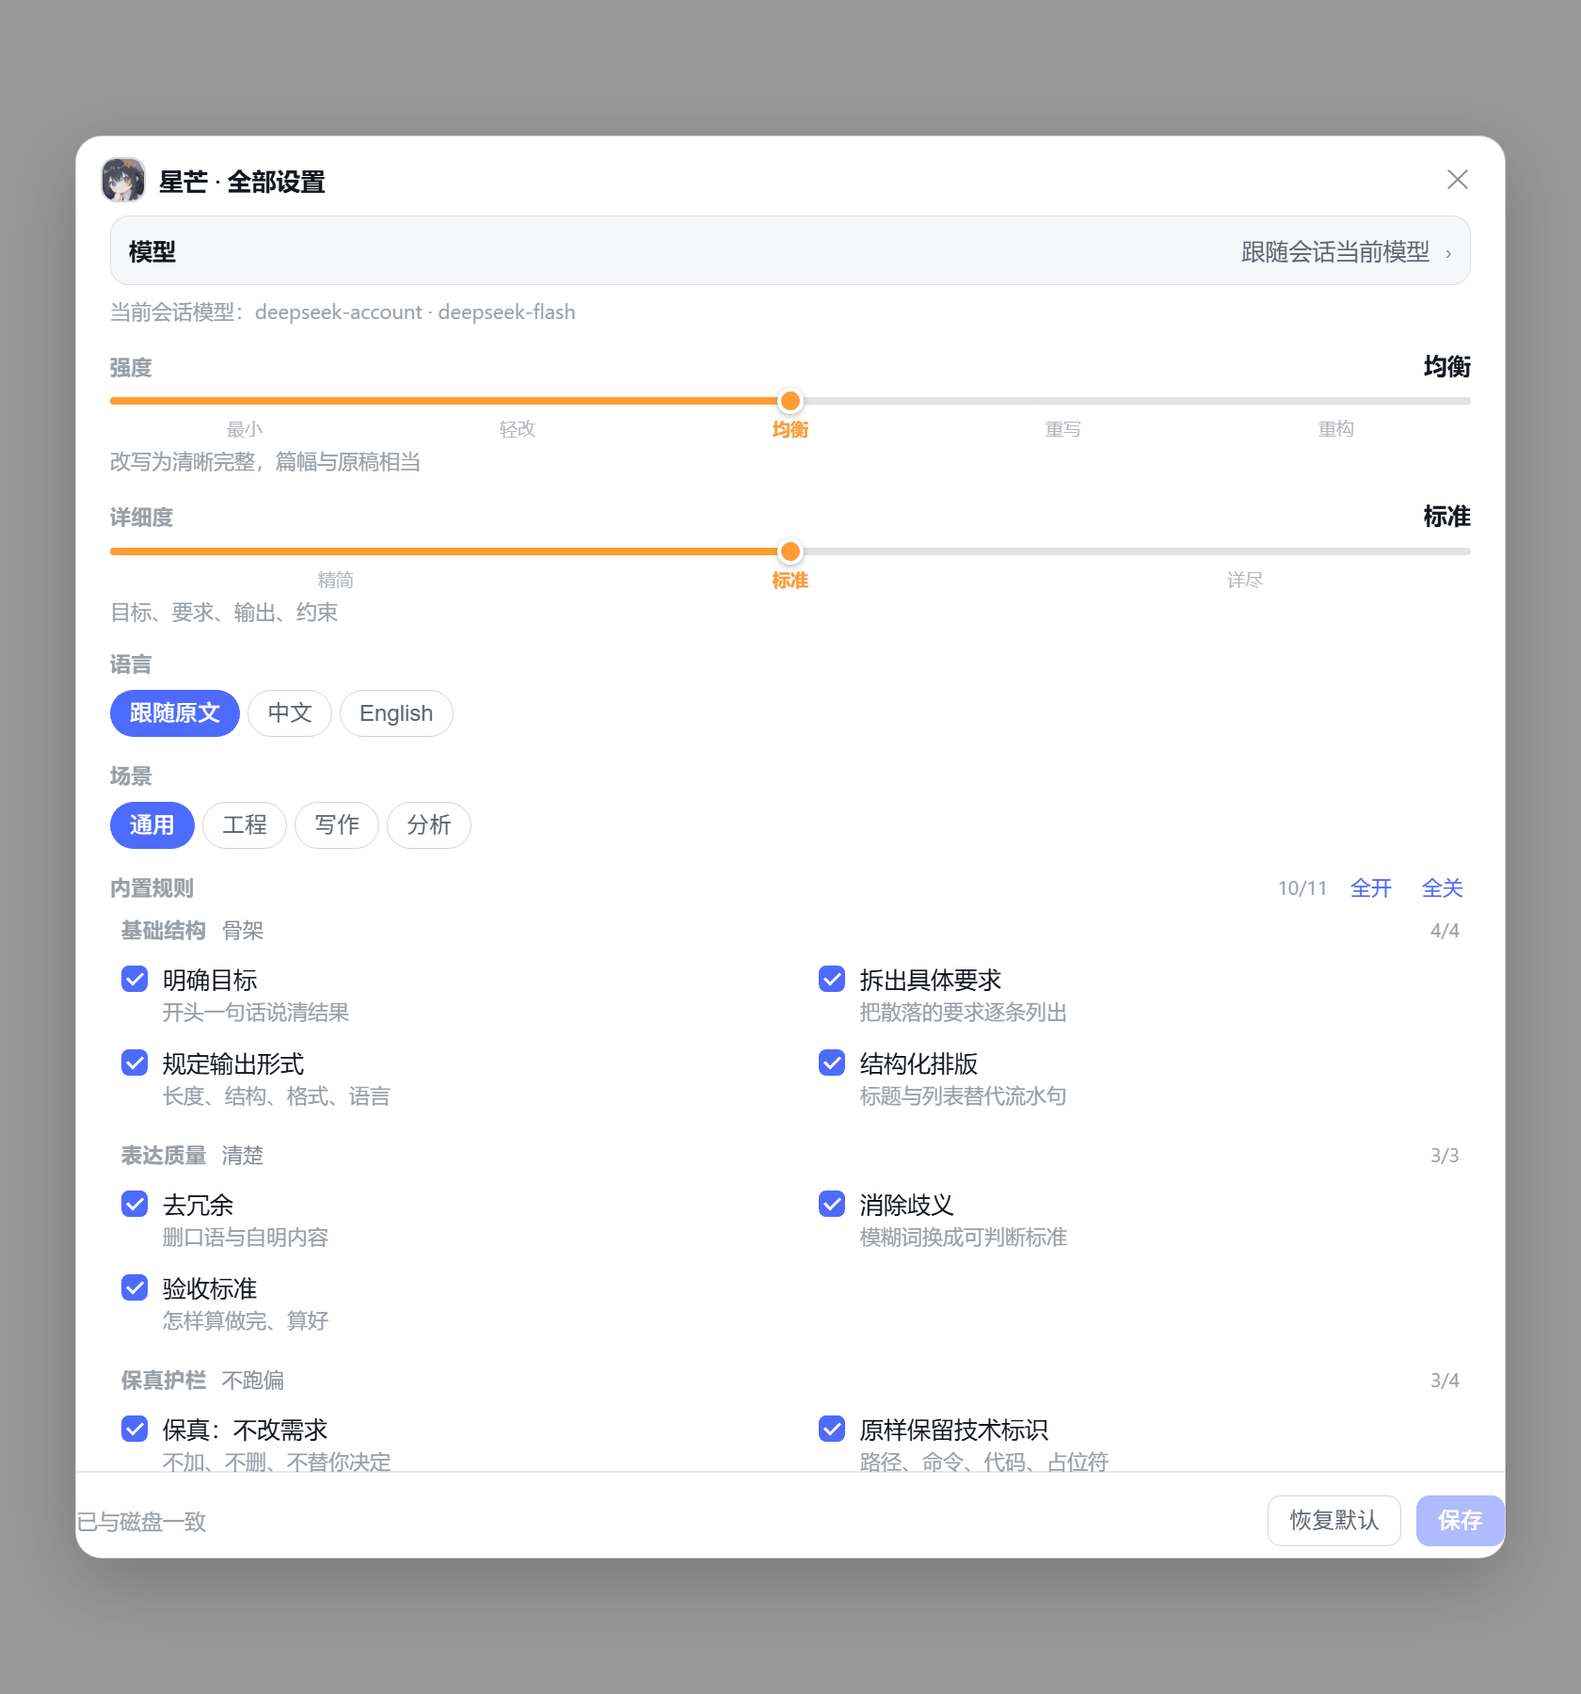
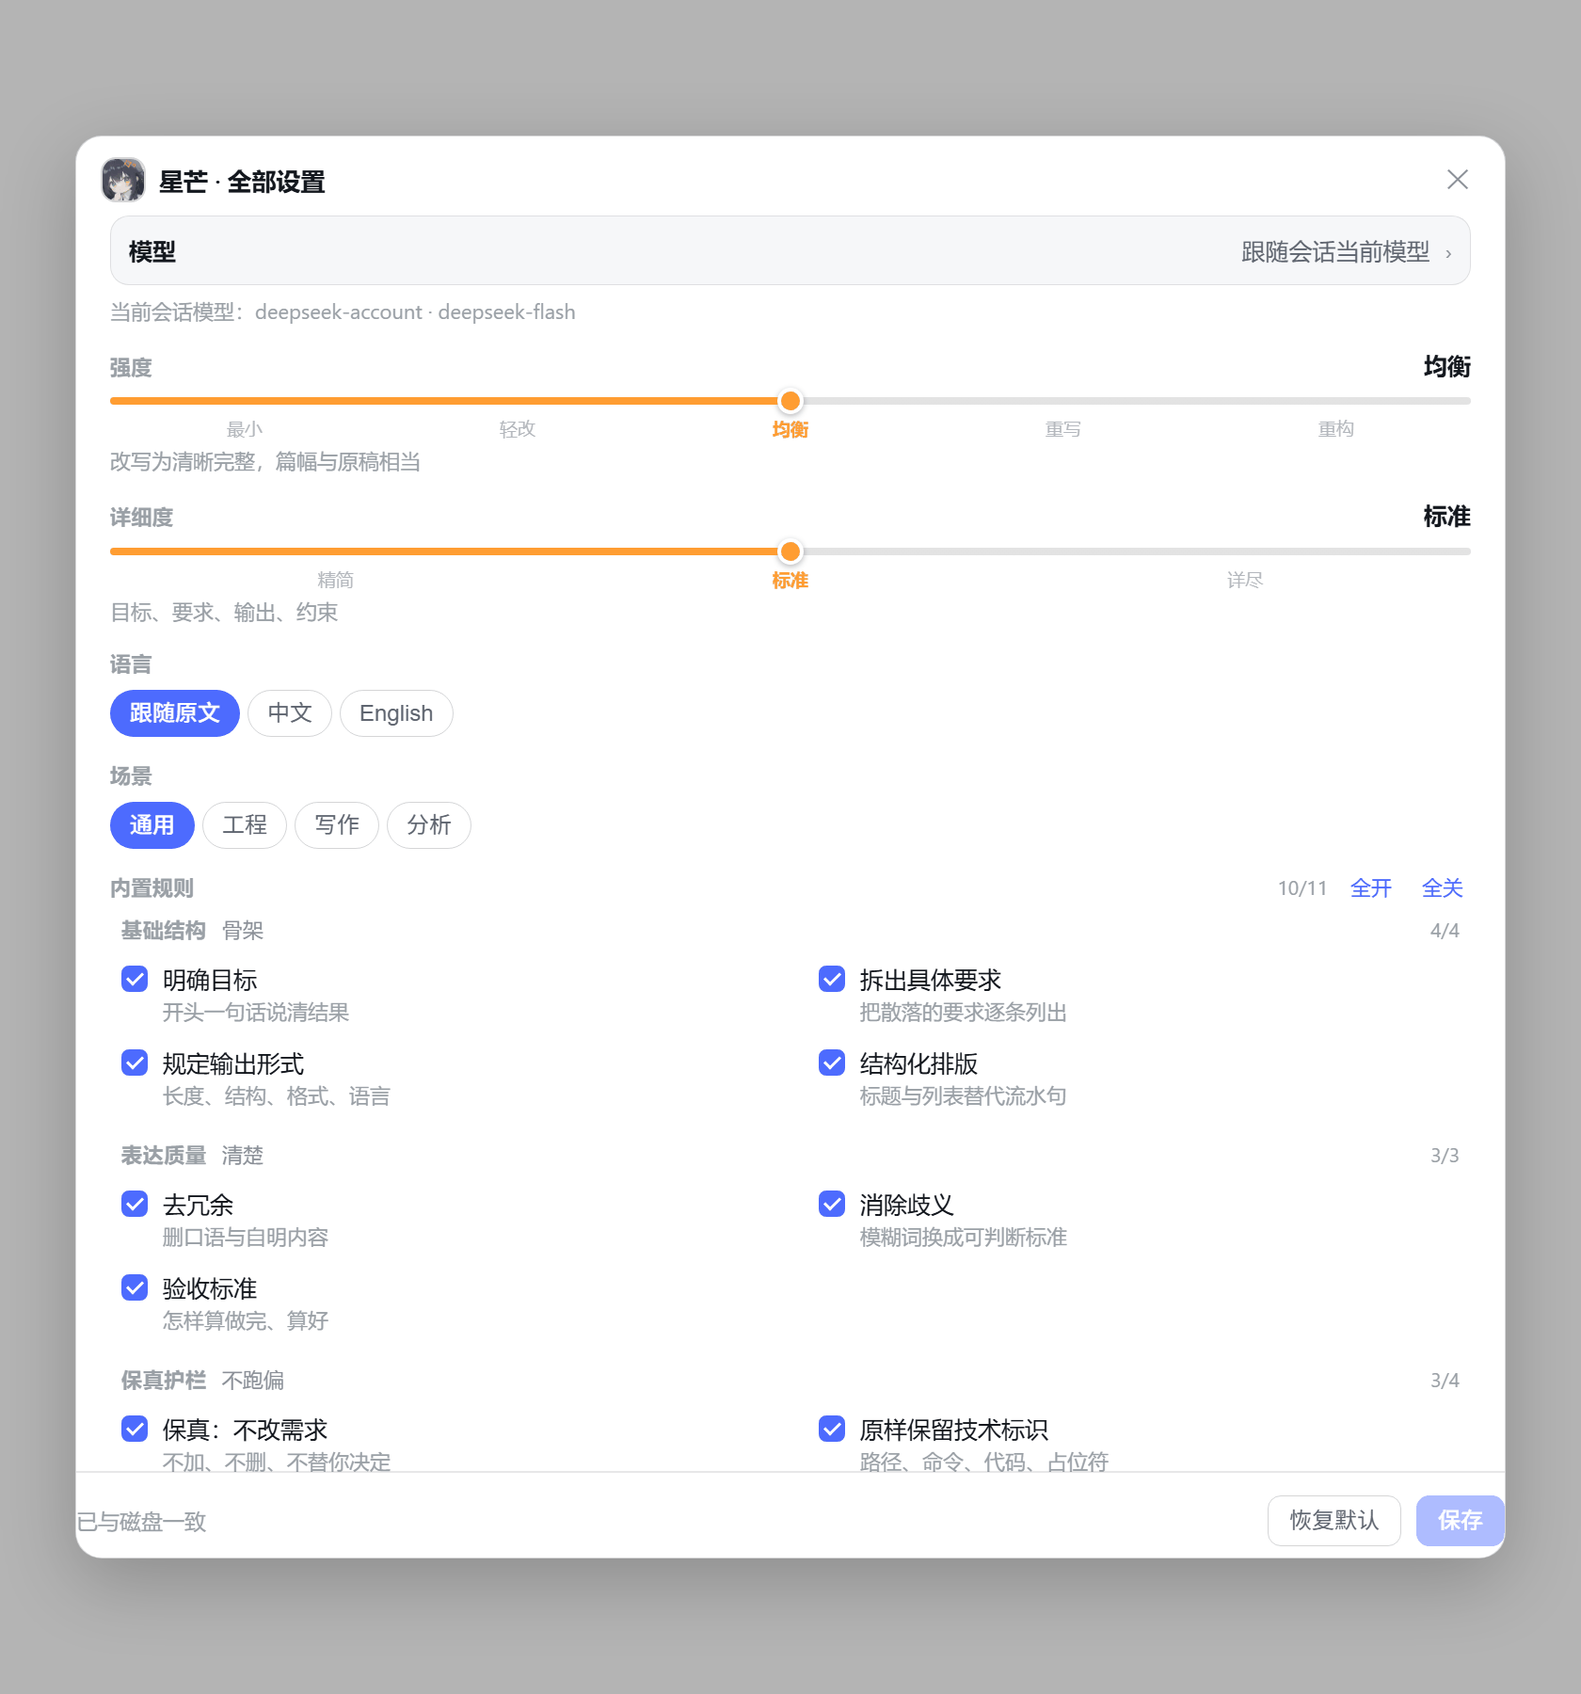
refactor(ui): 设置页与设置窗口合并为同一份内容
问题：两处各有一套渲染——设置页是「两张卡片 + 四个折叠」，设置窗口是
另一套布局，内容同源但实现两遍。加一个设置项要改两处，而且已经长得不一样。

做法：两边都渲染 FullSettings。
- 设置页：hero + 标签页 + FullSettings(wide, showAbout) + 底栏
- 设置窗口：head + FullSettings(wide) + 底栏
- 设置页原有的两段说明文案与「关于」搬进 FullSettings（用 showDescriptions /
  showAbout 控制，窗口不显示关于）
- 删掉设置页那 230 行独立卡片与折叠结构

测试 423 → 420 项：设置页断言改为「没有独立卡片与折叠区、一次铺开 5 根滑块、
有关于区块、有说明文案」，并保留保存链路（详细度=详尽 / 取消的规则 / 高级字段）。
包断言新增「设置页与设置窗口共用同一份内容组件」。

Changed region(s): [[0.0, 0.0, 1.0, 1.0]]

diff --git a/lib/client.js b/lib/client.js
@@ -1375,6 +1375,23 @@
               onReload: catalog.reload,
             }),
           ),
+          props.showDescriptions === true
+            ? e(
+                'p',
+                { className: 'dshsl-card-desc' },
+                t(
+                  '默认跟随会话。固定一个更便宜/更快的模型只影响星芒的旁路调用，不动你的会话模型。',
+                  'Follows the session by default. Pinning a cheaper or faster model only affects Starlight’s side call.',
+                ),
+              )
+            : null,
+          props.showDescriptions === true
+            ? e(
+                'p',
+                { className: 'dshsl-card-desc' },
+                t('强度 = 改动多少，详细度 = 写多长，两者独立。', 'Strength = how much moves; detail = how long it gets. They are independent.'),
+              )
+            : null,
           e(Slider, {
             label: t('强度', 'Strength'),
             name: 'depth',
@@ -1504,14 +1521,23 @@
             e('p', { className: 'dshsl-models-note' }, t('配置文件', 'Config file') + ' · ' + String(manifest.configFile || '')),
           ),
           e(EnabledToggle, { config: config, onPatch: rules.patch }),
-          e(
-            'p',
-            { className: 'dshsl-models-note' },
-            t(
-              '这一页与「设置 → 星芒提示词」是同一份配置；DSH 暂未提供从插件跳到设置页的接口，所以在这里就地展开。',
-              'This page and Settings → Starlight share one config. DSH does not expose an API for plugins to open the settings page, so it unfolds in place.',
-            ),
-          ),
+          props.showAbout === true
+            ? e(
+                'div',
+                { className: 'dshsl-about' },
+                e('p', { className: 'dshsl-field-label' }, t('关于', 'About')),
+                e('p', { className: 'dshsl-models-note' }, 'v0.4.1 · AGPL-3.0 · Starlit Sky'),
+                e('p', { className: 'dshsl-models-note' }, 'github.com/Starlit-Sky-code/dsh-prompt-starlight'),
+                e('p', { className: 'dshsl-models-note' }, t('快捷键：输入框内 Ctrl / ⌘ + Shift + O', 'Shortcut: Ctrl / ⌘ + Shift + O in the composer')),
+              )
+            : e(
+                'p',
+                { className: 'dshsl-models-note' },
+                t(
+                  '与「设置 → 星芒提示词」是同一份配置。',
+                  'Same config as Settings → Starlight.',
+                ),
+              ),
         )
       }
 
@@ -2414,236 +2440,19 @@
             }),
           ),
 
-          tab === 'market' ? e(SkillsMarket, {}) : e(React.Fragment, null,
-
-                    // —— ① 模型（第一项）——
-          e(
-            'section',
-            { className: 'dshsl-card' },
-            e('div', { className: 'dshsl-card-head' }, e('h3', { className: 'dshsl-card-title' }, t('模型', 'Model'))),
-            e(
-              'p',
-              { className: 'dshsl-card-desc' },
-              t(
-                '默认跟随会话。固定一个更便宜/更快的模型只影响星芒的旁路调用，不动你的会话模型。',
-                'Follows the session by default. Pinning a cheaper or faster model only affects Starlight’s side call.',
-              ),
-            ),
-            e(ModelPicker, {
-              catalog: catalog,
-              value: config,
-              label: null,
-              onChange: function (next) {
-                rules.patch({ provider: next.provider, model: next.model })
-              },
-              onReload: catalog.reload,
-            }),
-          ),
-
-          // —— ② 三个滑块/分段 ——
-          e(
-            'section',
-            { className: 'dshsl-card' },
-            e(
-              'div',
-              { className: 'dshsl-card-head' },
-              e('h3', { className: 'dshsl-card-title' }, t('改写力度', 'Rewrite force')),
-            ),
-            e(
-              'p',
-              { className: 'dshsl-card-desc' },
-              t('强度 = 改动多少，详细度 = 写多长，两者独立。', 'Strength = how much moves; detail = how long it gets. They are independent.'),
-            ),
-            e(Slider, {
-              label: t('强度', 'Strength'),
-              name: 'depth',
-              items: listOf(manifest, 'depths'),
-              value: config.depth,
-              onChange: function (id) {
-                rules.patch({ depth: id })
-              },
-            }),
-            e(Slider, {
-              label: t('详细度', 'Detail'),
-              name: 'verbosity',
-              items: listOf(manifest, 'verbosities'),
-              value: config.verbosity,
-              onChange: function (id) {
-                rules.patch({ verbosity: id })
-              },
-            }),
-            e(
-              'div',
-              { className: 'dshsl-row', style: { marginBottom: 0, marginTop: 10 } },
-              e('span', { className: 'dshsl-label' }, t('语言', 'Language')),
-              e(Segmented, {
-                label: t('语言', 'Language'),
-                items: listOf(manifest, 'locales'),
-                value: config.locale,
-                showNote: false,
-                onChange: function (id) {
-                  rules.patch({ locale: id })
-                },
+          tab === 'market'
+            ? e(SkillsMarket, {})
+            : e(FullSettings, {
+                manifest: manifest,
+                config: config,
+                rules: rules,
+                catalog: catalog,
+                wide: true,
+                showAbout: true,
+                showDescriptions: true,
               }),
-            ),
-          ),
 
-          // —— ③ 规则（折叠）——
-          e(
-            More,
-            {
-              title: t('规则', 'Rules'),
-              summary: (ruleCount - offCount) + '/' + ruleCount + ' · ' + lensLabel,
-            },
-            e(
-              'div',
-              { className: 'dshsl-row' },
-              e('span', { className: 'dshsl-label' }, t('场景', 'Scenario')),
-              e(Segmented, {
-                label: t('场景', 'Scenario'),
-                items: listOf(manifest, 'lenses'),
-                value: config.lens,
-                showNote: false,
-                onChange: function (id) {
-                  rules.patch({ lens: id })
-                },
-              }),
-            ),
-            e(
-              'div',
-              { className: 'dshsl-row' },
-              e(
-                'div',
-                { style: { display: 'flex', alignItems: 'center', gap: 8, marginBottom: 6 } },
-                e('span', { className: 'dshsl-label', style: { margin: 0, flex: 1 } }, t('内置规则', 'Built-in rules')),
-                e(
-                  'button',
-                  {
-                    type: 'button',
-                    className: 'dshsl-btn3',
-                    onClick: function () {
-                      rules.toggleMany(allRuleIds, true)
-                    },
-                  },
-                  t('全开', 'All on'),
-                ),
-                e(
-                  'button',
-                  {
-                    type: 'button',
-                    className: 'dshsl-btn3',
-                    onClick: function () {
-                      rules.toggleMany(allRuleIds, false)
-                    },
-                  },
-                  t('全关', 'All off'),
-                ),
-              ),
-              e(RuleList, { rules: listOf(manifest, 'rules'), groups: listOf(manifest, 'ruleGroups'), config: config, columns: 2, onToggle: rules.toggleRule }),
-            ),
-            e(EnabledToggle, { config: config, onPatch: rules.patch }),
-          ),
-
-          // —— ④ 自定义规则（折叠）——
-          e(
-            More,
-            {
-              title: t('自定义规则', 'Custom rules'),
-              summary: (config.customRules || []).length + ' ' + t('条', 'rules'),
-            },
-            e(CustomRulesField, { value: rules.customText, onChange: rules.setCustomText }),
-            e(
-              'p',
-              { className: 'dshsl-models-note' },
-              t('每行一条，优先级高于内置规则（五条不可协商的护栏除外）。', 'One per line; these outrank the built-in rules except the five non-negotiables.'),
-            ),
-          ),
-
-          // —— ⑤ 高级（折叠，全是滑块）——
-          e(
-            More,
-            {
-              title: t('高级', 'Advanced'),
-              summary: config.maxTokens + ' · ' + config.temperature + ' · ' + Math.round(config.timeoutMs / 1000) + 's',
-            },
-            e(NumberSlider, {
-              label: t('输出上限', 'Max tokens'),
-              min: 256,
-              max: 8000,
-              step: 64,
-              value: config.maxTokens,
-              onChange: function (n) {
-                rules.patch({ maxTokens: n })
-              },
-              note: t('会随草稿长度二次缩放，但不超过这个上限。', 'Scaled by draft length, never above this cap.'),
-            }),
-            e(NumberSlider, {
-              label: t('温度', 'Temperature'),
-              min: 0,
-              max: 1.5,
-              step: 0.05,
-              value: config.temperature,
-              onChange: function (n) {
-                rules.patch({ temperature: n })
-              },
-              note: t('越低越稳定，越高越自由。', 'Lower is steadier, higher drifts more.'),
-            }),
-            e(NumberSlider, {
-              label: t('超时', 'Timeout'),
-              min: 5000,
-              max: 300000,
-              step: 1000,
-              value: config.timeoutMs,
-              unit: 'ms',
-              onChange: function (n) {
-                rules.patch({ timeoutMs: n })
-              },
-              note: t('超时后自动降级为本地格式整理。', 'On timeout it degrades to a local tidy-up.'),
-            }),
-            e('p', { className: 'dshsl-field-label', style: { marginTop: 12 } }, t('配置文件', 'Config file')),
-            e('p', { className: 'dshsl-path' }, String(manifest.configFile || '')),
-            e(
-              'p',
-              { className: 'dshsl-models-note' },
-              t('手改文件后重开本页即可看到（按 mtime 检测）。', 'Hand edits show up when you reopen this page (mtime-based).'),
-            ),
-          ),
-
-          // —— ⑥ 关于（折叠）——
-          e(
-            More,
-            { title: t('关于', 'About'), summary: 'v0.4.1 · AGPL-3.0' },
-            e(
-              'p',
-              { className: 'dshsl-models-note', style: { margin: 0, lineHeight: '19px' } },
-              t('作者 Starlit Sky · AGPL-3.0 · 保留署名头。', 'by Starlit Sky · AGPL-3.0 · keep the signature headers.'),
-            ),
-            e(
-              'p',
-              { className: 'dshsl-models-note', style: { margin: '6px 0 0', lineHeight: '19px' } },
-              'github.com/Starlit-Sky-code/dsh-prompt-starlight',
-            ),
-            e(
-              'p',
-              { className: 'dshsl-models-note', style: { margin: '6px 0 0', lineHeight: '19px' } },
-              t('快捷键：输入框内 Ctrl / ⌘ + Shift + O', 'Shortcut: Ctrl / ⌘ + Shift + O in the composer'),
-            ),
-          ),
-
-          manifest.llmAvailable === false
-            ? e(
-                'p',
-                { className: 'dshsl-warn' },
-                t(
-                  '本机没有可用的模型服务，点击按钮只会做本地格式整理。',
-                  'No model service is available on this host; the button will only tidy formatting.',
-                ),
-              )
-            : null,
-          rules.error !== '' ? e('p', { className: 'dshsl-warn' }, rules.error) : null,
-
-          ),
-
+          
           // —— 底栏（只读目录页不显示保存类操作）——
           tab !== 'config'
             ? e(

diff --git a/CHANGELOG.md b/CHANGELOG.md
@@ -16,6 +16,7 @@ Chinese version: [CHANGELOG.zh-CN.md](CHANGELOG.zh-CN.md).
 - **The popover's "More" section is far more compact**: rules show their title only (the note becomes a hover tooltip), two columns, group notes dropped, and custom rules fold into a nested section. The panel cap went from 560 to 620px, so the footer stays put.
 - Screenshots are now quantized to a 256-colour palette: `tools/make-shots.mjs` calls `tools/optimize-shots.py`. Eight images 1.08 MB → 0.43 MB, and the package is back to 0.83 MB.
 
+- **The settings page and the settings window now render one component**: they used to be two separate layouts (the page had two cards and four collapsibles, the window had another set), so adding a setting meant editing both and they drifted. Both render `FullSettings` now; only the page adds the About block. The page's two description lines moved into that component.
 - **The "Plugin market" tab is gone**: the settings page is back to "Settings / Skill market". Sitting next to the skill catalog it invited users to confuse installing *plugins* with installing *skills*, and DSH already has the Plugins page in the sidebar — a second entry point only duplicated it.
 - **The sticky footer is opaque now**: it faded in from a transparent gradient, so scrolled content showed through the top of the bar (and the gradient's endpoint did not match the panel in dark themes). It is now a 96%-opaque surface plus a blur and a hairline.
 - **A slimmer popover**: rules, custom rules and advanced parameters now live only in the settings window (the gear); expanding the popover leaves the scenario switch, one clickable row that opens the window, and the master toggle. The section summary reads "scenario · General" instead of a rule count — the rules are no longer in that block, so reporting a count only misleads. (the gear); expanding the popover leaves the scenario switch and the master toggle, plus a line saying where the rest went. The same set used to appear three times — popover, settings window, settings page — and the popover copy only made the panel taller.

diff --git a/CHANGELOG.zh-CN.md b/CHANGELOG.zh-CN.md
@@ -16,6 +16,7 @@
 - **浮层的「更多设置」变紧凑**：规则只留标题（说明转为悬停提示）、两列排布、分组说明省略，自定义规则收成二级折叠；面板上限 560 → 620px，底栏常驻。
 - 截图改为 256 色调色板量化：`tools/make-shots.mjs` 跑完自动调 `tools/optimize-shots.py`，八张图 1.08 MB → 0.43 MB，包体回到 0.83 MB。
 
+- **设置页与设置窗口合并为同一份内容**：两边原来各有一套渲染（设置页是「两张卡片 + 四个折叠」，窗口是另一套），加一个设置项要改两处、还容易长得不一样。现在都渲染 `FullSettings`，设置页额外显示「关于」。设置页的两段说明文案与「关于」也搬进了该组件。
 - **移除「插件市场」标签页**：设置页回到「配置 / 技能市场」两枚。理由是它和「技能市场」并列会让用户混淆「装插件」和「装技能」，而 DSH 插件本身的安装入口在侧栏 Plugins 里，插件再开一个市场属于重复入口。
 - **浮层瘦身**：规则、自定义规则与高级参数只在设置窗口（齿轮）里；浮层展开后只剩「场景」、一行可点击入口（点它直接开设置窗口）与总开关。摘要也从「规则 11/11 · 通用」改成「场景 · 通用」——规则已经不在这块里，再报规则数只会误导。；浮层展开后只剩「场景」与总开关，并指明它们在哪。同一套东西原来在浮层、设置窗口、设置页各出现一次，浮层这一份只会把面板撑长。
 - **设置窗口补上 Tab 陷阱**：模态窗里 Tab / Shift+Tab 在首尾两端回卷，不再跑到背后的页面；关闭时焦点仍还给齿轮按钮。

diff --git a/README.md b/README.md
@@ -67,7 +67,7 @@ The gear in the popover opens a **standalone settings window** — the same conf
 
 <img src="docs/screenshots/settings-dialog.png" width="620" alt="Settings window" />
 
-Settings page (Settings → Starlight) — model first, then the two sliders, the rest collapsed:
+Settings page (Settings → Starlight) — the **same content** as the settings window: model first, then sliders, language, scenario, rules, custom rules and advanced:
 
 <img src="docs/screenshots/settings.png" width="620" alt="Starlight settings page" />
 
